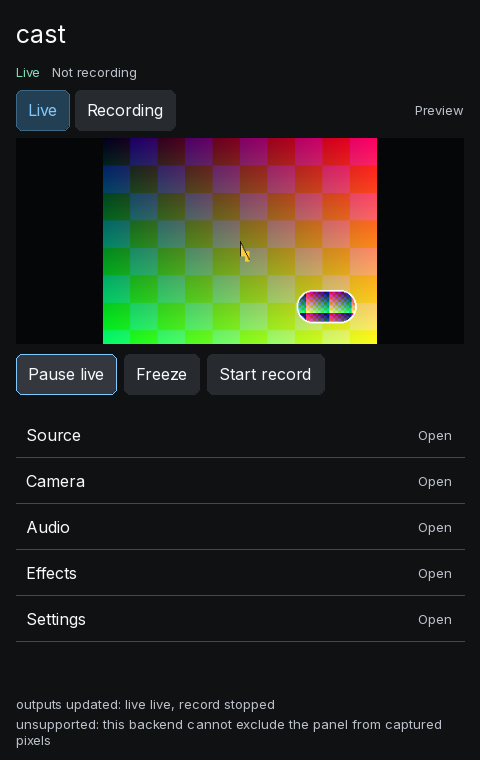
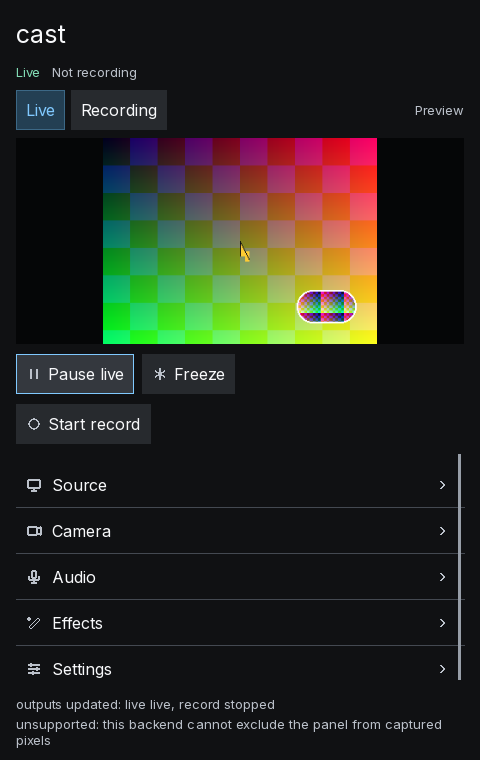
Verify CLI countdown cancellation and recording boundary with current panel screenshots

diff --git a/tests/test_countdown_xorg.py b/tests/test_countdown_xorg.py
@@ -1,0 +1,123 @@
+#!/usr/bin/env python3
+"""Exercise recording countdown lifecycle against a daemon on private Xvfb."""
+import json
+import os
+from pathlib import Path
+import subprocess
+import tempfile
+import time
+
+ROOT = Path(__file__).resolve().parent.parent
+
+
+def wait_until(predicate, message, timeout=8):
+    deadline = time.monotonic() + timeout
+    while time.monotonic() < deadline:
+        if predicate():
+            return
+        time.sleep(.03)
+    raise AssertionError(message)
+
+
+def guides():
+    result = subprocess.run(['xdotool', 'search', '--onlyvisible', '--class', '^CastCountdown$'],
+                            capture_output=True, text=True)
+    return result.stdout.split() if result.returncode == 0 else []
+
+
+def main():
+    assert os.environ.get('DISPLAY'), 'run through the private Xvfb check-xorg target'
+    with tempfile.TemporaryDirectory(prefix='cast-countdown-') as directory:
+        temporary = Path(directory)
+        socket = temporary / 'control.sock'
+        configuration = temporary / 'cast.conf'
+        configuration.write_text('[output]\npause_color=#203040\n'
+                                 '[record]\ncountdown=2\nvideo_codec=ffv1\n'
+                                 f'directory={temporary}\n')
+        base = [str(ROOT / 'cast'), '--config', str(configuration), '--socket', str(socket)]
+        environment = dict(os.environ, XDG_RUNTIME_DIR=directory)
+        with (temporary / 'daemon.log').open('w+') as log:
+            daemon = subprocess.Popen(base + ['--backend', 'xorg', '--no-live', '--no-camera',
+                                             '--width', '320', '--height', '180'],
+                                      env=environment, stdout=log, stderr=log)
+            try:
+                def command(*arguments):
+                    result = subprocess.run(base + list(arguments), env=environment,
+                                            capture_output=True, text=True, timeout=5)
+                    assert result.returncode == 0, result.stderr + result.stdout
+                    return result.stdout
+
+                def state():
+                    return json.loads(command('status', '--json'))
+
+                wait_until(socket.exists, 'private daemon did not create its socket')
+                command('record', 'start', str(temporary / 'escape.mkv'))
+                wait_until(lambda: len(guides()) == 1, 'CLI countdown guide did not map')
+                window = guides()[0]
+                properties = subprocess.check_output(
+                    ['xprop', '-id', window, 'WM_CLASS', '_NET_WM_WINDOW_TYPE'], text=True)
+                assert 'CastCountdown' in properties and '_NET_WM_WINDOW_TYPE_UTILITY' in properties
+                subprocess.run(['xdotool', 'windowfocus', '--sync', window, 'key', 'Escape'], check=True)
+                wait_until(lambda: not state()['record']['countdown'], 'Escape did not cancel')
+                assert not state()['record']['state'] == 'recording'
+                assert not (temporary / 'escape.mkv').exists()
+                assert not guides(), 'cancelled guide stayed visible'
+
+                for cancel in [('record', 'stop'), ('pause',)]:
+                    path = temporary / ('-'.join(cancel) + '.mkv')
+                    command('record', 'start', str(path))
+                    wait_until(lambda: bool(guides()), 'next guide did not appear')
+                    command(*cancel)
+                    assert not state()['record']['countdown']
+                    assert not guides(), 'guide remained visible after cancellation acknowledgement'
+                    assert not path.exists()
+
+                command('resume')
+                subprocess.run(['xdotool', 'mousemove', '0', '0'], check=True)
+                command('settings', 'record.countdown', '1')
+                path = temporary / 'started.mkv'
+                command('record', 'start', str(path))
+                wait_until(lambda: bool(guides()), 'successful countdown guide did not appear')
+                wait_until(lambda: state()['record']['state'] == 'recording', 'countdown did not start recording')
+                assert not guides(), 'guide remained visible at recording start'
+                time.sleep(.2)
+                command('record', 'stop')
+                wait_until(lambda: not state()['record']['finalizing'], 'recording did not finalize')
+                frames = subprocess.check_output(
+                    ['ffprobe', '-v', 'error', '-select_streams', 'v:0', '-count_frames',
+                     '-show_entries', 'stream=nb_read_frames', '-of', 'default=nw=1:nk=1', str(path)],
+                    text=True)
+                assert int(frames.strip()) > 0, 'countdown start produced no recorded frames'
+                first = subprocess.check_output(
+                    ['ffmpeg', '-v', 'error', '-i', str(path), '-frames:v', '1',
+                     '-f', 'rawvideo', '-pix_fmt', 'rgb24', 'pipe:1'])
+                assert len(first) == 320 * 180 * 3
+                # The centered guide covered this region. The first recording
+                # may use the retained neutral footprint while WM chrome retires;
+                # it must never contain the guide's number, ring or background.
+                for y in range(70, 110):
+                    for x in range(140, 180):
+                        pixel = first[(y * 320 + x) * 3:(y * 320 + x + 1) * 3]
+                        assert all(value <= 3 for value in pixel) or all(
+                            abs(value - neutral) <= 3
+                            for value, neutral in zip(pixel, (32, 48, 64))), \
+                            'countdown guide leaked into the first recording frame'
+                command('quit')
+                assert daemon.wait(timeout=5) == 0
+                print('Xorg CLI countdown guide, cancellation, privacy pause and recording start passed')
+            except BaseException:
+                log.seek(0)
+                print(log.read())
+                raise
+            finally:
+                if daemon.poll() is None:
+                    daemon.terminate()
+                    try:
+                        daemon.wait(timeout=5)
+                    except subprocess.TimeoutExpired:
+                        daemon.kill()
+                        daemon.wait()
+
+
+if __name__ == '__main__':
+    main()

diff --git a/README.md b/README.md
@@ -101,6 +101,11 @@ cp -n examples/cast.conf ~/.config/cast/cast.conf
 ./cast
 ```
 
+The panel and preview are Xorg utility windows (`CastPanel` and `CastPreview`);
+window managers that float utilities, including mwm, center them automatically.
+The panel uses square controls with drawn icons and keeps its preview visible.
+A recording countdown shows a local numbered guide before recording begins.
+
 The virtual camera starts with a neutral **Paused** frame at normal cadence. In another
 terminal, explicitly enable live video and then select `cast` in the conference:
 
@@ -132,7 +137,9 @@ With exclusive_caps=1, some consumers detect the camera only after the producer 
 Virtual audio is a separate optional device. cast cannot mute a physical mic selected
 directly by the call app; use the app's mute control or select cast's virtual microphone.
 Desktop audio is off by default and requires explicit source selection. All-key overlays
-are off by default and can expose sensitive typing. Freeze deliberately holds content;
+are off by default and can expose sensitive typing. Recent keystrokes stay visible
+for three seconds by default, with consecutive repeats grouped as `j`, `jx2`,
+`jx3`; use `cast settings keys.timeout_ms 4000` for a four-second history. Freeze deliberately holds content;
 use pause for privacy. A recording pause removes interruption time from the same file.
 
 For recording without a virtual camera, use `./cast --no-live`; for screen-only use

diff --git a/docs/visual.md b/docs/visual.md
@@ -93,7 +93,10 @@ Keys default off; enabling them defaults to shortcuts mode. That mode displays
 Ctrl/Alt/Super combinations and configured navigation keys. All mode also displays
 printable key symbols and can expose sensitive typing. Translation follows XKB map,
 group and modifier notifications. Consecutive identical labels collapse into one
-entry: `j`, `jx2`, `jx3`, including held-key repeats. Plain alphabetic symbols retain
+entry: `j`, `jx2`, `jx3`. Every observed raw press counts, including flagged repeats
+where available. Server-generated software autorepeat may not reach the global
+raw-event stream; cast does not invent events based on keyboard repeat rates.
+Plain alphabetic symbols retain
 their translated case in all mode; shortcut labels use uppercase alphabetic names.
 Combination order is `Ctrl+Alt+Super+Shift+Key` and space is `Space`. `[keys] filter`
 accepts complete labels such as `Super+Shift+Space`, or individual key labels.

diff --git a/docs/release-notes/0.3.0.md b/docs/release-notes/0.3.0.md
@@ -10,8 +10,8 @@ float utility windows, including mwm, center them automatically.
 - The standalone preview follows the output frame rate, reuses conversion storage
   and keeps a bounded latest-frame queue rather than accumulating latency.
 - Keystrokes retain a bounded recent history for three seconds by default
-  (`keys.timeout_ms`). Consecutive repeated labels show `j`, `jx2`, `jx3`, including
-  held-key repeats. Privacy and source changes still clear annotation history.
+  (`keys.timeout_ms`). Consecutive observed presses collapse as `j`, `jx2`, `jx3`.
+  Privacy and source changes still clear annotation history.
 - A recording countdown displays a simple numbered film-style guide in the panel.
   Without an attached panel, Xorg shows a centered local countdown window. Escape,
   closing that window, `cast record stop` or `cast pause` cancels the pending start.
